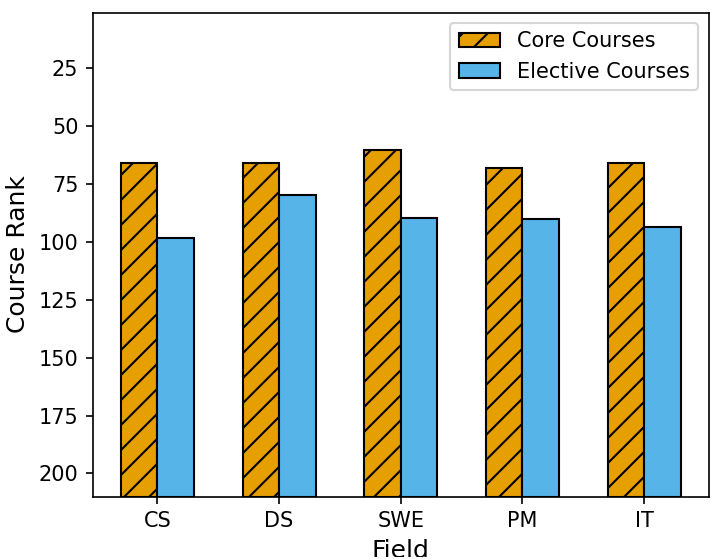
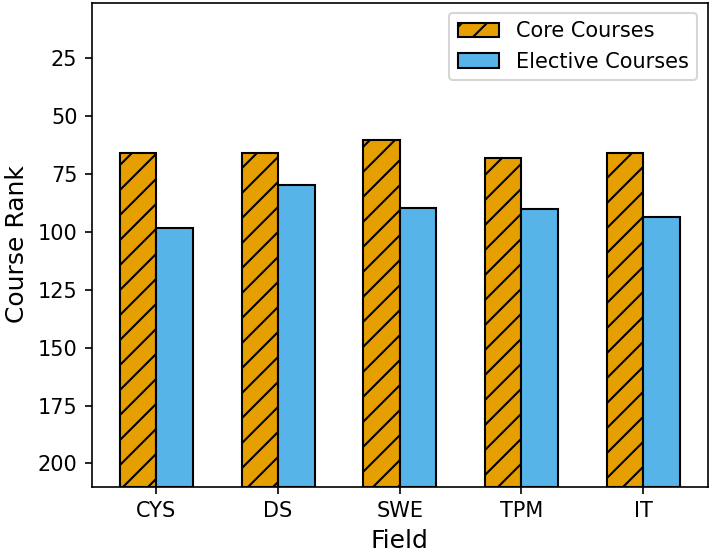
plot changes

Changed region(s): [[0.0, 0.0, 1.0, 1.0], [0.0616, 0.1844, 0.1541, 0.2459], [0.0616, 0.0922, 0.1541, 0.1537]]

diff --git a/analyze_top_bottom_courses/core_vs_elective.py b/analyze_top_bottom_courses/core_vs_elective.py
@@ -59,7 +59,7 @@ print(elective_df['PM'].mean())
 print(elective_df['IT'].mean())
 """
 
-fields = ['CS', 'DS', 'SWE', 'PM', 'IT']
+fields = ['CYS', 'DS', 'SWE', 'TPM', 'IT']
 core_means = [
     core_df['CS'].mean(),
     core_df['DS'].mean(),

diff --git a/analyze_top_bottom_courses/plot_grad_vs_undergrad.py b/analyze_top_bottom_courses/plot_grad_vs_undergrad.py
@@ -57,7 +57,7 @@ swe = {
     }
 }
 
-fields = ['CS', 'DS', 'SWE', 'PM', 'IT']
+fields = ['CYS', 'DS', 'SWE', 'TPM', 'IT']
 data_dicts = [cs, ds, swe, pm, it]
 
 plt.figure(figsize=(8, 6))
